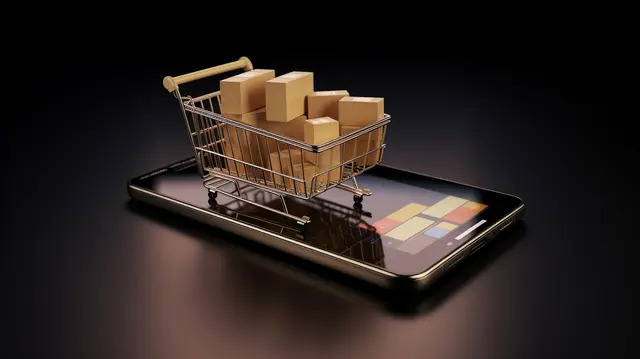
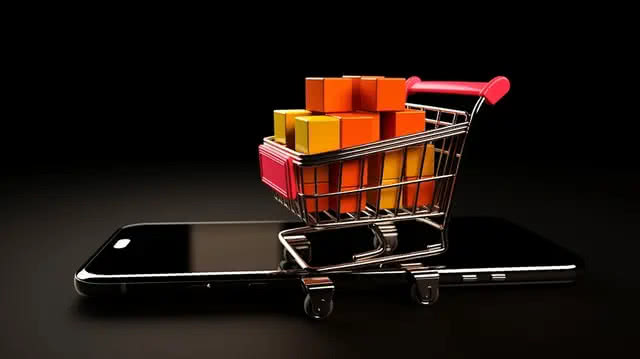
image

diff --git a/app/templates/user/index.html b/app/templates/user/index.html
@@ -103,7 +103,7 @@
             <div class="col-md-4">
                 <div class="card h-100 text-center shadow-sm">
                     <div class="card-body">
-                        <div class="feature-icon bg-success rounded-circle mx-auto mb-3 d-flex align-items-center justify-content-center" style="width: 80px; height: 80px;">
+                        <div class="feature-icon rounded-circle mx-auto mb-3 d-flex align-items-center justify-content-center" style="width: 80px; height: 80px; background-color: #a3b89c;">
                             <img src="{{ url_for('static', filename='images/comparePhone.png') }}" alt="Compare Phones" style="width: 50px; height: 50px; object-fit: contain;" onerror="this.style.display='none'; this.nextElementSibling.style.display='block';">
                             <i class="bi bi-phone-compare text-white" style="font-size: 2rem; display: none;"></i>                        
                         </div>
@@ -299,9 +299,9 @@
 <style>
 .hero-section-bg {
     background: linear-gradient(135deg, #0B5ED7 0%, #6C757D 100%);
-    background-image: url("{{ url_for('static', filename='images/homeWallpaper.jpg') }}");
+    background-image: url("{{ url_for('static', filename='images/homeWallpaper1.jpg') }}");
     background-size: cover;
-    background-position: center;
+    background-position: right center;
     background-repeat: no-repeat;
     background-attachment: fixed;
     position: relative;

diff --git a/app/static/css/style.css b/app/static/css/style.css
@@ -3,7 +3,7 @@
 */
 
 :root {
-    --primary-color: #8f6c5b;
+    --primary-color: #ad6754;
     --secondary-color: #bed0d6;
     --success-color: #9e7a68;
     --warning-color: #e1dfde;
